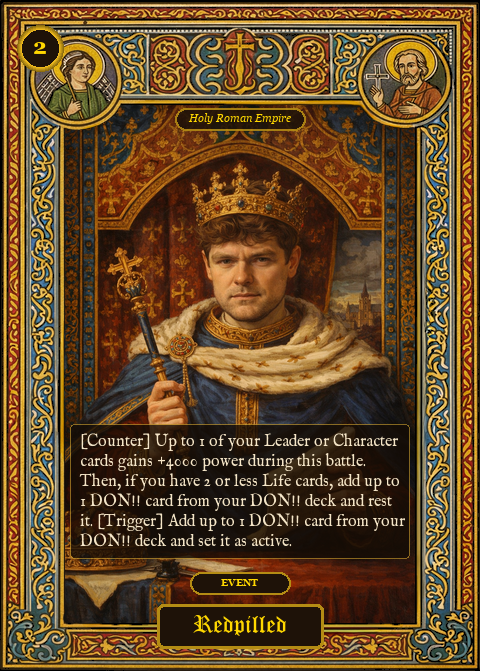
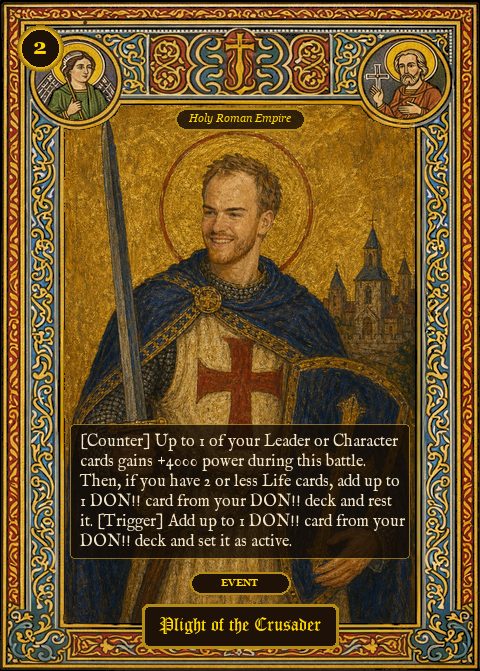
Rename OP01-119 to Plight of the Crusader and regen art

diff --git a/deck-editor.html b/deck-editor.html
@@ -499,7 +499,7 @@
       { id:'OP01-100', name:'Merchant Dam', type:'CHARACTER', color:'Purple', attribute:'Wisdom', affiliation:'Holy Roman Empire', power:3000, cost:2, counter:1000, imgExt:'png', ability:'[Blocker] [On K.O.] Add 1 DON!! card from your DON!! deck and rest it.' },
       { id:'OP01-101', name:'Shawn the Whimsical', type:'CHARACTER', color:'Purple', attribute:'Strike', affiliation:'Holy Roman Empire', power:4000, cost:3, counter:2000, imgExt:'png', ability:'[DON!! x1] [When Attacking] You may trash 1 card from your hand: Add up to 1 DON!! card from your DON!! deck and rest it.' },
       { id:'OP01-117', name:'Guard Off Duty', type:'EVENT', color:'Purple', attribute:"", affiliation:'Holy Roman Empire', power:0, cost:2, counter:0, imgExt:'png', hasAlt:true, ability:"[Main] DON!! -1: Rest up to 1 of your opponent's Characters with a cost of 6 or less." },
-      { id:'OP01-119', name:'Redpilled', type:'EVENT', color:'Purple', attribute:"", affiliation:'Holy Roman Empire', power:0, cost:2, counter:0, imgExt:'png', ability:'[Counter] Up to 1 of your Leader or Character cards gains +4000 power during this battle. Then, if you have 2 or less Life cards, add up to 1 DON!! card from your DON!! deck and rest it. [Trigger] Add up to 1 DON!! card from your DON!! deck and set it as active.' },
+      { id:'OP01-119', name:'Plight of the Crusader', type:'EVENT', color:'Purple', attribute:"", affiliation:'Holy Roman Empire', power:0, cost:2, counter:0, imgExt:'png', ability:'[Counter] Up to 1 of your Leader or Character cards gains +4000 power during this battle. Then, if you have 2 or less Life cards, add up to 1 DON!! card from your DON!! deck and rest it. [Trigger] Add up to 1 DON!! card from your DON!! deck and set it as active.' },
 
       // OP12
       { id:'OP12-008', name:'Shanks', type:'CHARACTER', color:'Red', attribute:'Slash', power:6000, cost:4, counter:0, imgExt:'jpg', ability:"[Blocker] [On Your Opponent's Attack] [Once Per Turn] You may trash 1 card from your hand: Give up to 1 of your opponent's Leader or Characters -2000 power during this turn." },

diff --git a/server.js b/server.js
@@ -454,7 +454,7 @@ const CARD_DB = [
     power:0, cost:2, counter:0, image:IMG('OP01','OP01-117','png'), hasAlt:true, useNewPipeline:true,
     ability:"[Main] DON!! -1: Rest up to 1 of your opponent's Characters with a cost of 6 or less." },
 
-  { id:'OP01-119', name:'Redpilled', type:'EVENT', color:'Purple', affiliation:'Holy Roman Empire',
+  { id:'OP01-119', name:'Plight of the Crusader', type:'EVENT', color:'Purple', affiliation:'Holy Roman Empire',
     power:0, cost:2, counter:0, image:IMG('OP01','OP01-119','png'), useNewPipeline:true,
     ability:"[Counter] Up to 1 of your Leader or Character cards gains +4000 power during this battle. Then, if you have 2 or less Life cards, add up to 1 DON!! card from your DON!! deck and rest it. [Trigger] Add up to 1 DON!! card from your DON!! deck and set it as active." },
 
